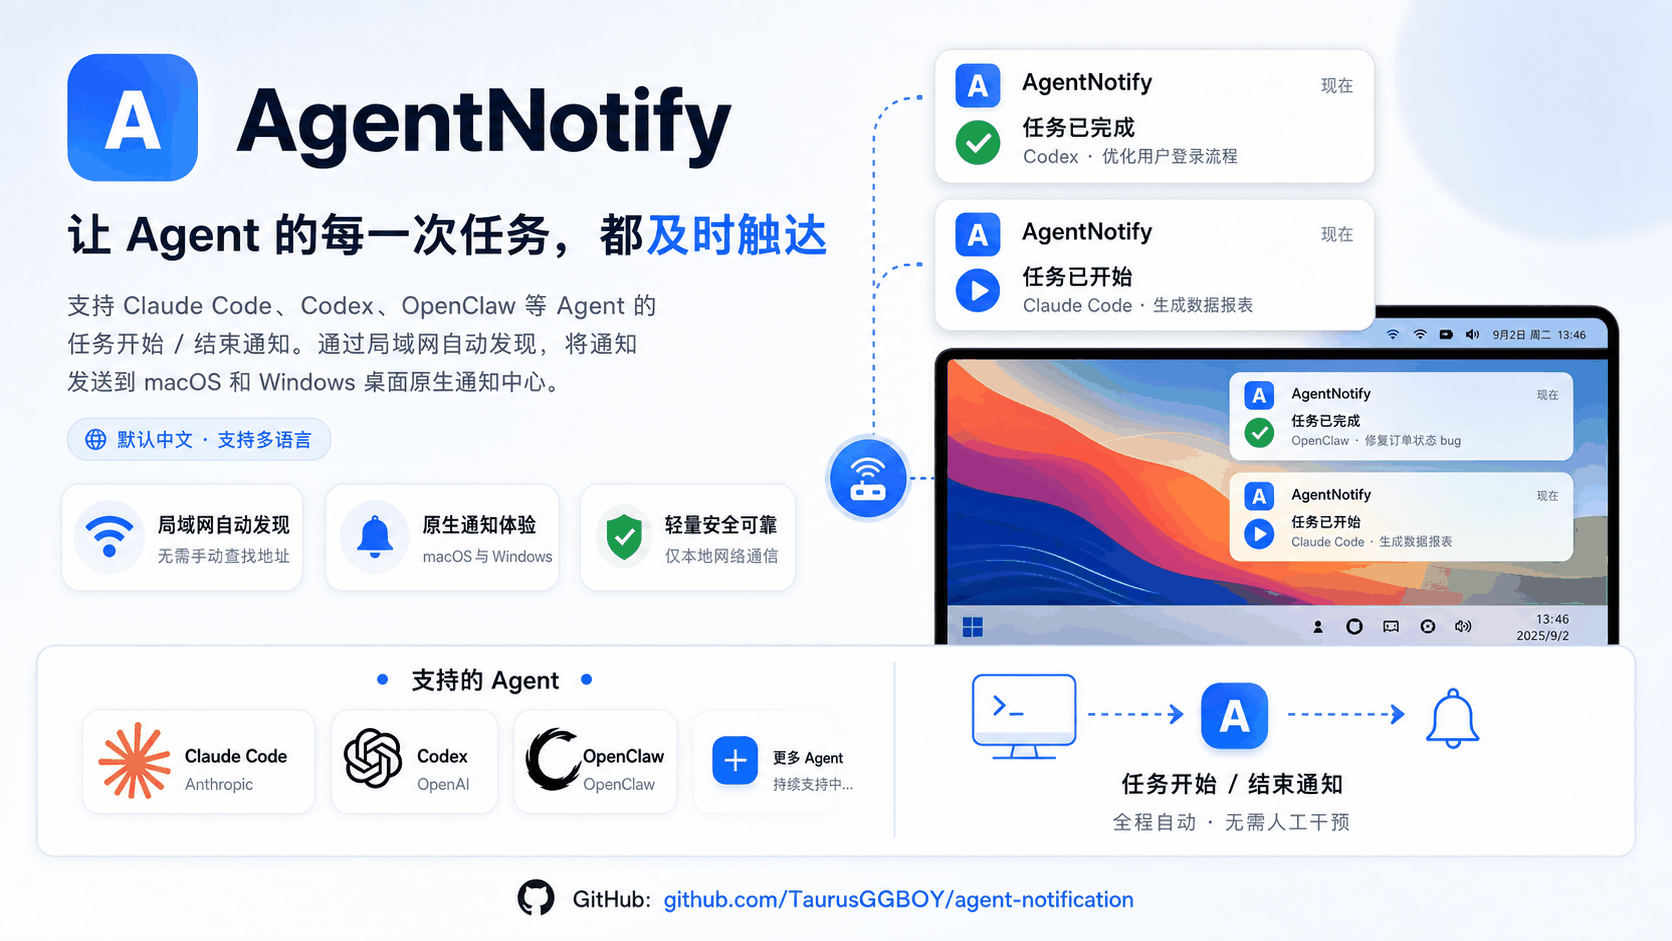
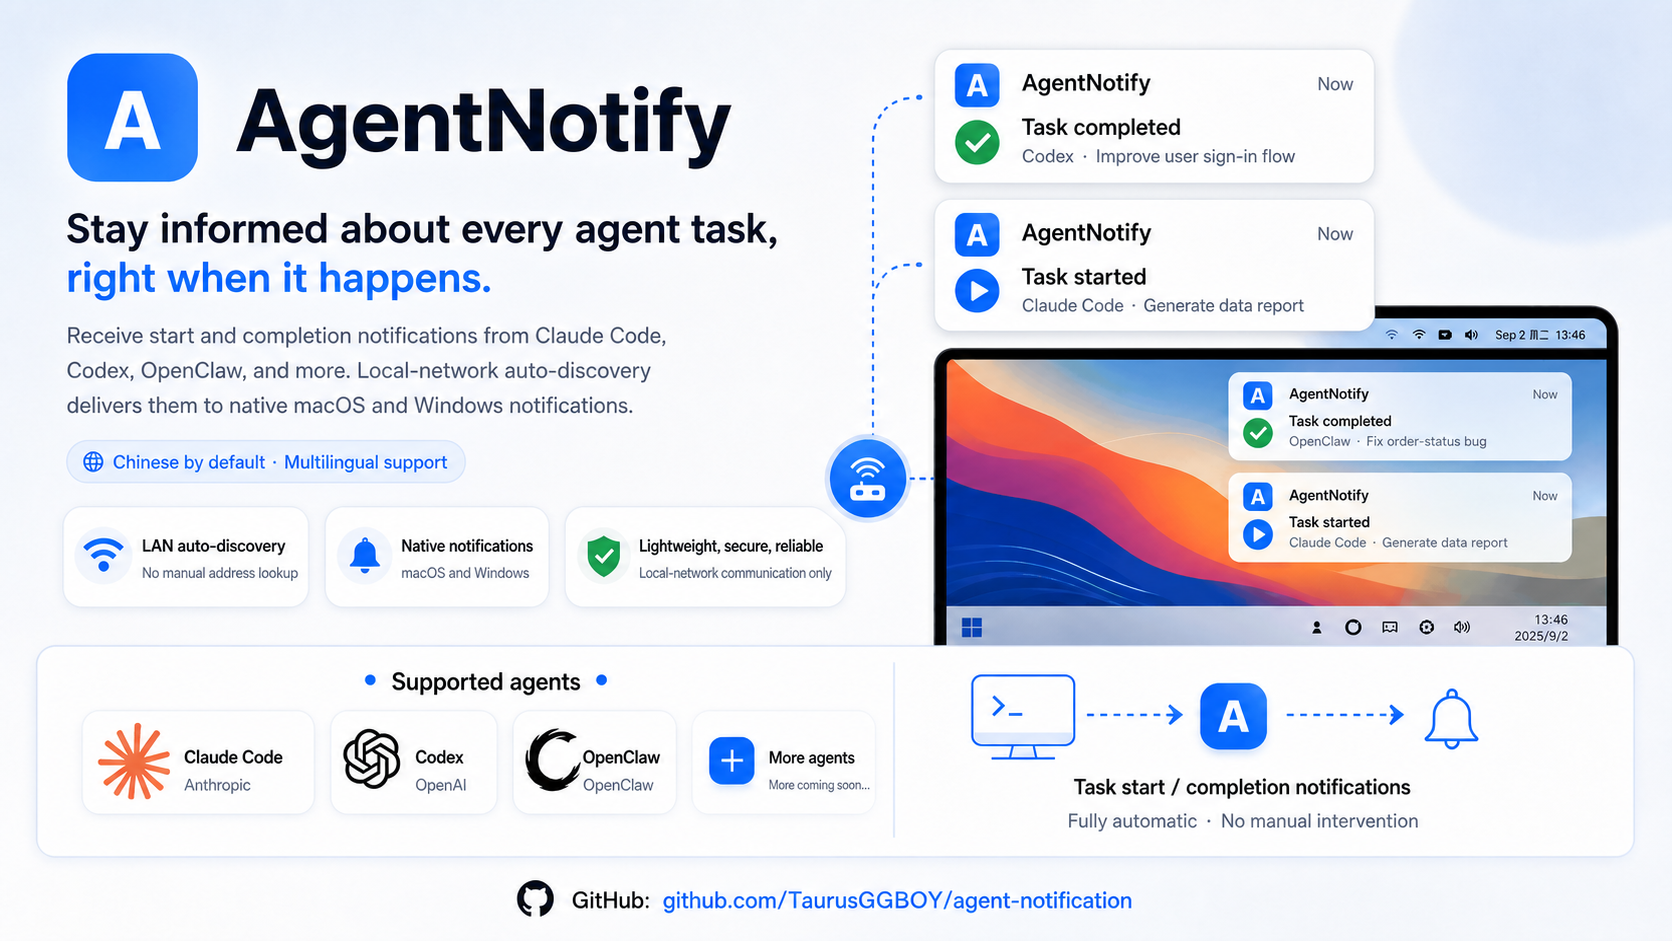
docs: add English README and promo image

diff --git a/README.md b/README.md
@@ -1,118 +1,91 @@
 # Agent Notification
 
 <p align="center">
-  <img src="assets/agentnotify-promo.png" alt="AgentNotify promo image for Claude Code, Codex, and OpenClaw task notifications" width="100%">
+  <img src="assets/agentnotify-promo.png" alt="AgentNotify notifications for Claude Code, Codex, and OpenClaw" width="100%">
 </p>
 
-<p align="center">
-  <strong>让 Agent 的任务状态及时出现在桌面通知里。</strong>
-</p>
+<p align="center"><strong>Native desktop notifications for agent task status.</strong></p>
 
 <p align="center">
   <img alt="Platform" src="https://img.shields.io/badge/platform-macOS%20%7C%20Windows-2f7cf6">
-  <img alt="Language" src="https://img.shields.io/badge/language-%E4%B8%AD%E6%96%87%20%7C%20English-22a06b">
+  <img alt="Language" src="https://img.shields.io/badge/language-Chinese%20%7C%20English-22a06b">
   <img alt="Discovery" src="https://img.shields.io/badge/discovery-mDNS%20%7C%20LAN-6b7280">
 </p>
 
-AgentNotify 是一个局域网桌面通知接收器。Claude Code、Codex、OpenClaw 等 Agent 可以把任务开始和结束事件发送给 AgentNotify，再由 macOS 或 Windows 显示系统原生通知。
+AgentNotify is a local-network desktop notification receiver. Claude Code, Codex, OpenClaw, and other agents can send task-start and task-completion events to AgentNotify, which displays native macOS or Windows notifications.
 
-桌面端负责运行本地通知服务、展示局域网访问地址、发送测试通知、设置开机启动和切换界面语言。Agent 侧配置由仓库内的 `agent-notify-discovery` skill 自动完成，通常不需要手写 hook 命令。
+The desktop app runs the local notification service, shows its LAN address, sends test notifications, manages launch-at-login behavior, and lets users switch the interface language. Agent-side setup is handled by the repository's `agent-notify-discovery` skill, so hook commands usually do not need to be written manually.
 
-## 功能
+## Features
 
-| 能力 | 说明 |
-|------|------|
-| macOS / Windows 桌面端 | Tauri 应用内置 Go server sidecar，安装后直接运行 |
-| 系统原生通知 | 使用 macOS 和 Windows 通知中心显示任务状态 |
-| 局域网自动发现 | 通过 mDNS/DNS-SD 广播 `_agent-notify._tcp.local.` |
-| 多 Agent 支持 | 支持 Claude Code、Codex、OpenClaw，可继续扩展 |
-| 任务开始 / 结束通知 | 可按需配置 `start`、`stop`，或同时开启 |
-| 本地控制面板 | 显示服务状态、局域网 URL、安装命令、历史记录和测试入口 |
-| 开机启动 | 可在桌面端侧边栏开启或关闭随系统启动 |
-| 中英文界面 | 应用设置中可切换中文或 English |
+| Capability | Details |
+| --- | --- |
+| macOS and Windows desktop app | Tauri app with a bundled Go server sidecar |
+| Native system notifications | Uses macOS and Windows notification centers |
+| LAN auto-discovery | Advertises `_agent-notify._tcp.local.` through mDNS/DNS-SD |
+| Multi-agent support | Claude Code, Codex, and OpenClaw, with room to extend |
+| Task events | Configure `start`, `stop`, or both |
+| Local control panel | Service status, LAN URL, setup guidance, history, and testing |
+| Launch at login | Manage automatic startup in the desktop app |
+| Chinese and English UI | Switch languages in application settings |
 
-## 项目结构
+## Project layout
 
-| 路径 | 说明 |
-|------|------|
-| `tauri-app/` | macOS / Windows 桌面客户端 |
-| `windows-server/` | Go 通知服务，桌面端打包为 sidecar |
-| `skills/agent-notify-discovery/` | Agent 侧自动发现和 hook 配置 skill |
-| `scripts/` | 安装、验证和辅助脚本 |
-| `docs/` | 发布和维护文档 |
+| Path | Purpose |
+| --- | --- |
+| `tauri-app/` | macOS and Windows desktop client |
+| `windows-server/` | Go notification service bundled as the desktop sidecar |
+| `skills/agent-notify-discovery/` | Agent auto-discovery and hook-configuration skill |
+| `scripts/` | Installation, verification, and helper scripts |
+| `docs/` | Release and maintenance documentation |
 
-## 快速开始
+## Quick start
 
-### 1. 安装并启动桌面端
+### 1. Install and start the desktop app
 
-从 GitHub Release 下载对应平台的安装包。
+Download the installer for your platform from GitHub Releases.
 
-macOS：
+For macOS, open the `.dmg`, drag `AgentNotify` to `Applications`, start it, and allow notifications when prompted. For Windows, run the installer, start `AgentNotify`, and allow local-network access if Windows Firewall or security software asks.
 
-1. 打开 `.dmg` 文件。
-2. 将 `AgentNotify` 拖入 `Applications`。
-3. 启动 `AgentNotify`。
-4. 首次弹出通知权限请求时点击 **Allow**。
-5. 在应用里点击测试通知，确认系统通知可以正常显示。
-
-Windows：
-
-1. 运行 Windows 安装包。
-2. 启动 `AgentNotify`。
-3. 如果 Windows 防火墙或安全软件询问网络访问权限，允许局域网通信。
-4. 在应用里点击测试通知，确认系统通知可以正常显示。
-
-启动后，应用会显示本机局域网 URL，例如：
+Send a test notification from the app to confirm that system notifications appear. After startup, it shows a LAN URL such as:
 
 ```text
 http://192.168.1.23:17891
 ```
 
-Agent 通常可以自动发现这个地址。如果 multicast 或跨网段环境导致自动发现失败，可以把应用里显示的 URL 交给配置 skill 手动指定。
+Agents can usually discover this address automatically. If multicast is unavailable or agents are on another subnet, use the URL shown by the app for manual configuration.
 
-### 2. 安装 AgentNotify Skill
+### 2. Install the AgentNotify skill
 
-在运行 Agent 的机器上，复制桌面端显示的安装命令，或直接安装本仓库的 skill：
+On the machine running your agents, install the repository skill:
 
 ```bash
 npx skills add TaurusGGBOY/agent-notification
 ```
 
-安装后，在 Agent 中运行：
+Then run:
 
 ```text
 /agent-notify-discovery
 ```
 
-常见配置目标：
+Typical requests:
 
 ```text
-发现 AgentNotify，并为 Claude Code、Codex、OpenClaw 配置任务结束通知。
+Discover AgentNotify and configure task-completion notifications for Claude Code, Codex, and OpenClaw.
 ```
-
-或者：
 
 ```text
-使用 http://192.168.1.23:17891，为 Claude Code 和 Codex 配置 start、stop 通知。
+Use http://192.168.1.23:17891 and configure start and completion notifications for Claude Code and Codex.
 ```
 
-配置完成后：
+Restart Claude Code or Codex after configuration. Restart the OpenClaw Gateway for its plugin to take effect. If Codex asks you to trust hooks, review `~/.codex/hooks.json` before approving it.
 
-- 重启 Claude Code 或 Codex，让新的 hooks 生效。
-- 重启 OpenClaw Gateway，让 Agent Notify plugin 生效。
-- 如果 Codex 要求信任 hooks，先检查 `~/.codex/hooks.json`，确认内容后再批准。
+### 3. Verify notifications
 
-### 3. 验证通知
+After restarting an agent, send a simple message such as `hi`. The desktop app should receive a native notification when the task completes, and also when it begins if `start` events were configured.
 
-重启 Agent 后发送一条简单消息：
-
-```text
-hi
-```
-
-任务结束时桌面端应该收到系统通知。如果配置了 `start`，任务开始时也会收到通知。
-
-也可以用 HTTP 请求直接验证服务：
+You can also test the service directly:
 
 ```bash
 curl -X POST http://127.0.0.1:17891/notify \
@@ -120,10 +93,10 @@ curl -X POST http://127.0.0.1:17891/notify \
   -d '{"agent":"codex","event":"stop","project":"agent-notification","message":"manual test"}'
 ```
 
-## 事件映射
+## Event mapping
 
-| Agent hook | AgentNotify 事件 |
-|------------|------------------|
+| Agent hook | AgentNotify event |
+| --- | --- |
 | Claude Code `SessionStart` | `start` |
 | Claude Code `Stop` | `stop` |
 | Codex `SessionStart` | `start` |
@@ -131,13 +104,9 @@ curl -X POST http://127.0.0.1:17891/notify \
 | OpenClaw `before_model_resolve` | `start` |
 | OpenClaw `agent_end` | `stop` |
 
-## 通知协议
+## Notification protocol
 
-AgentNotify 接收 JSON 请求：
-
-```http
-POST /notify
-```
+AgentNotify accepts JSON requests at `POST /notify`:
 
 ```json
 {
@@ -150,30 +119,28 @@ POST /notify
 }
 ```
 
-字段说明：
+| Field | Description |
+| --- | --- |
+| `agent` | Agent name, such as `claude`, `codex`, or `openclaw` |
+| `event` | `start` or `stop` |
+| `project` | Project name |
+| `cwd` | Agent working directory |
+| `message` | Notification body |
+| `timestamp` | Event time; ISO 8601 is recommended |
 
-| 字段 | 说明 |
-|------|------|
-| `agent` | Agent 名称，例如 `claude`、`codex`、`openclaw` |
-| `event` | `start` 或 `stop` |
-| `project` | 项目名 |
-| `cwd` | Agent 运行目录 |
-| `message` | 通知正文 |
-| `timestamp` | 事件时间，建议使用 ISO 8601 |
+## Troubleshooting
 
-## 排障
+| Problem | What to do |
+| --- | --- |
+| No desktop notifications | Check system notification permission and send a test notification in AgentNotify |
+| Agent cannot find the app | Configure the LAN URL shown in the app manually |
+| LAN device cannot connect | Check firewall access to port `17891` |
+| Hooks do not take effect | Restart the affected agent or OpenClaw Gateway |
+| Codex asks to trust hooks | Review `~/.codex/hooks.json` before approving it |
 
-| 问题 | 处理方式 |
-|------|----------|
-| 桌面端没有通知 | 检查系统通知权限，并在 AgentNotify 中发送测试通知 |
-| Agent 找不到桌面端 | 使用应用里显示的局域网 URL 手动配置 |
-| 局域网机器无法访问 | 检查防火墙是否允许 `17891` 端口 |
-| 修改 hooks 后不生效 | 重启对应 Agent 或 OpenClaw Gateway |
-| Codex 提示 hook 信任 | 检查 `~/.codex/hooks.json` 后再批准 |
+## Development
 
-## 开发
-
-桌面客户端位于 `tauri-app/`：
+Desktop client:
 
 ```bash
 cd tauri-app
@@ -181,9 +148,9 @@ npm install
 npm run tauri:dev
 ```
 
-`npm run tauri:dev` 会为当前 Rust target 构建 Go sidecar，并启动 Tauri 桌面应用。
+The command builds the Go sidecar for the current Rust target and starts the Tauri app.
 
-Go 通知服务位于 `windows-server/`：
+Go service:
 
 ```bash
 cd windows-server
@@ -191,18 +158,12 @@ go test ./...
 go run .
 ```
 
-默认服务地址：
-
-```text
-0.0.0.0:17891
-```
-
-可通过环境变量覆盖：
+The default address is `0.0.0.0:17891`. Override it when needed:
 
 ```bash
 AGENT_NOTIFY_HTTP_ADDR=127.0.0.1:17891 go run .
 ```
 
-## 发布
+## Release
 
-发布流程见 [docs/release-checklist.md](docs/release-checklist.md)。发布需要人工执行；普通合并不自动代表发版。
+See [docs/release-checklist.md](docs/release-checklist.md). Releases require a manual action; an ordinary merge does not create a release.
